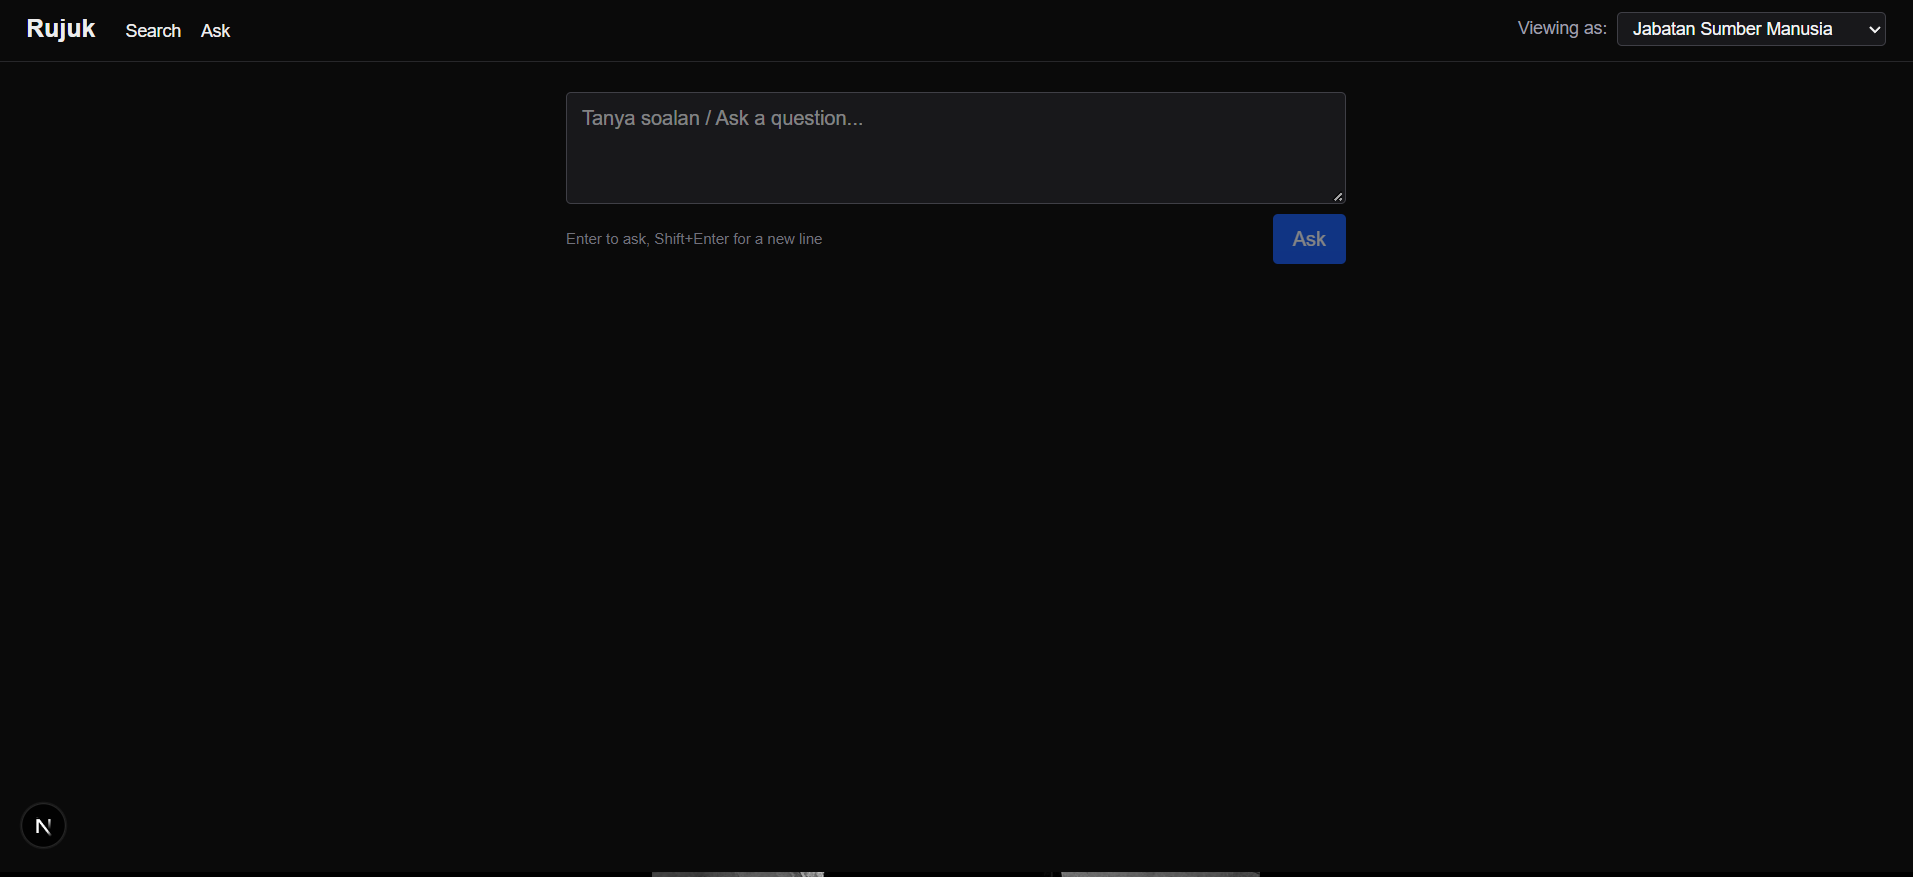
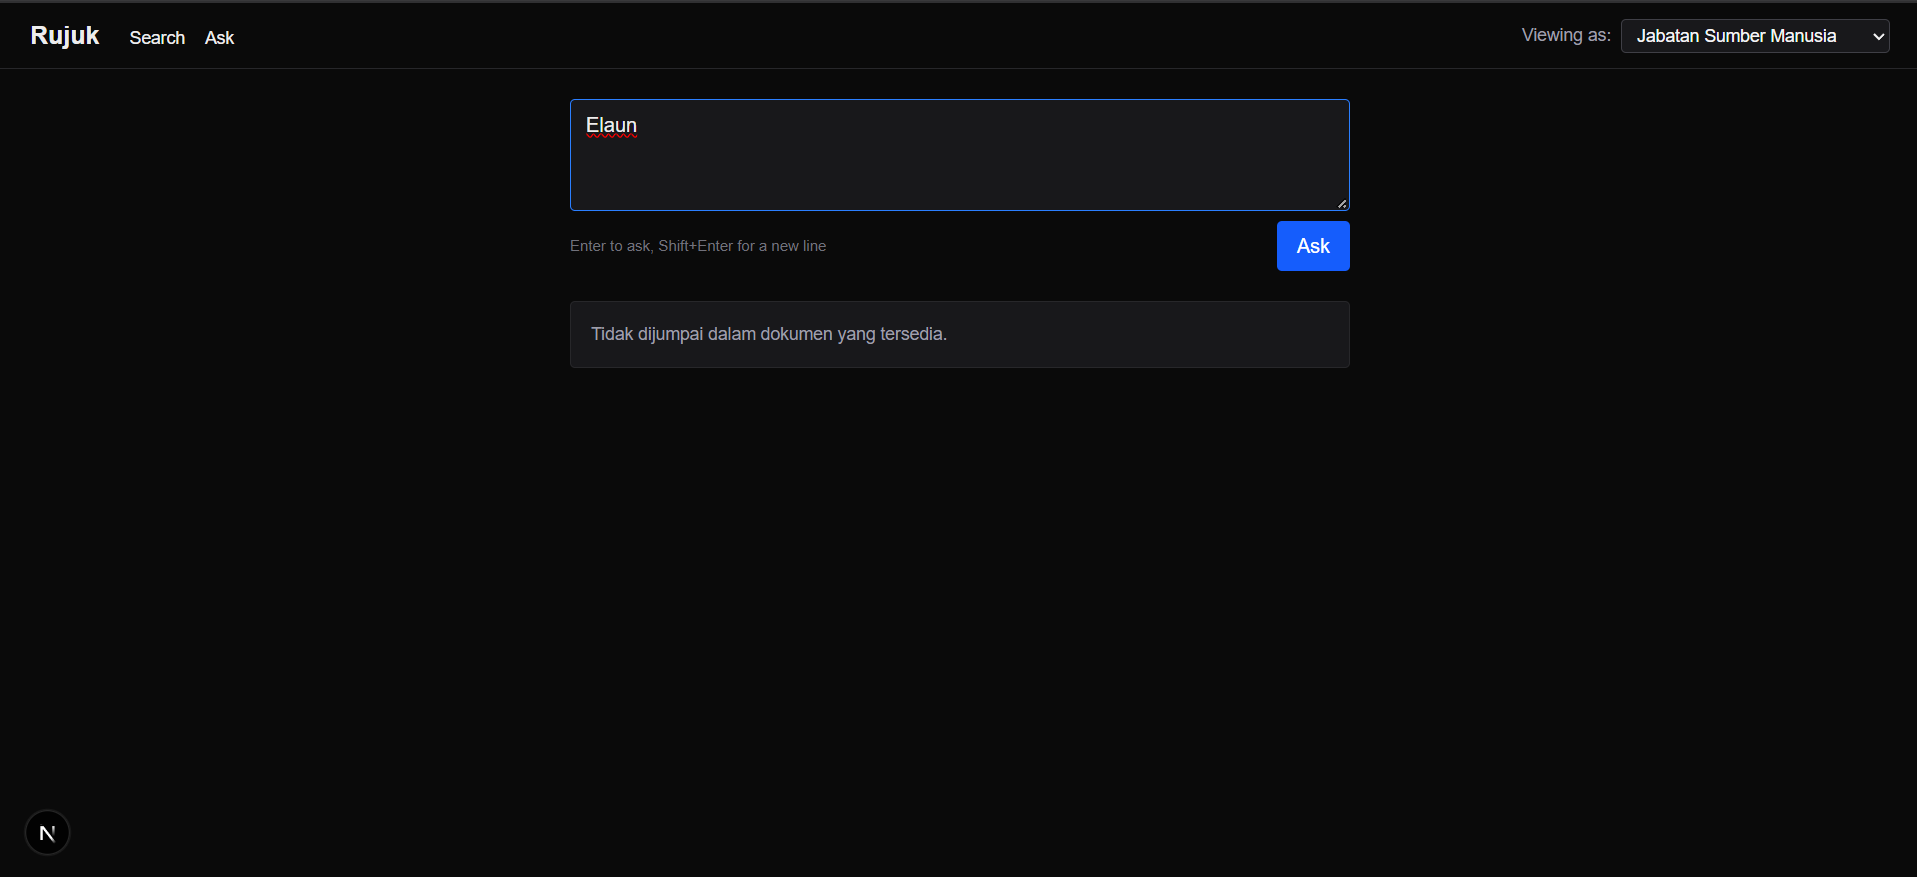
docs: clarify caption for cited answer screenshot in README

diff --git a/README.md b/README.md
@@ -25,7 +25,7 @@ Search results with tags and the Superseded badge:
 
 ![Search results with tags and the Superseded badge](docs/screenshots/search.png)
 
-A cited answer in Malay from an English document:
+For ask screenshot document:
 
 ![A cited answer in Malay from an English document](docs/screenshots/ask.png)
 
